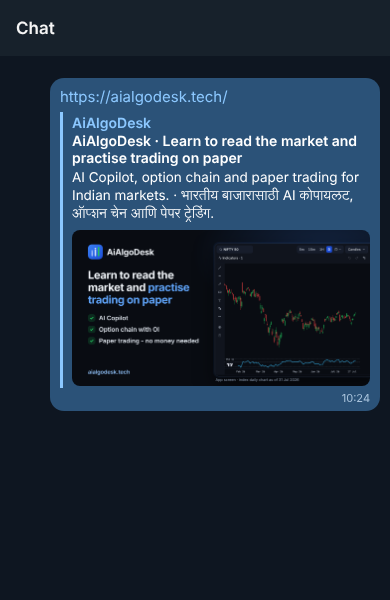
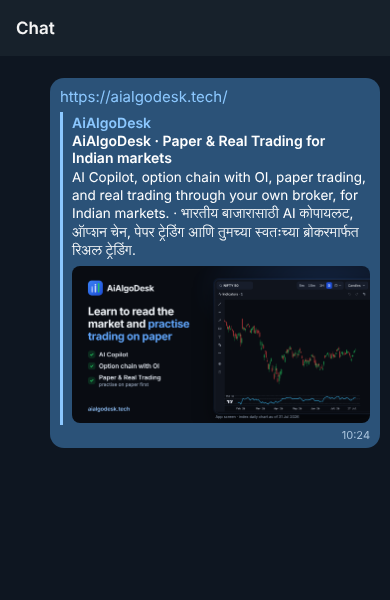
M95-Q8: the link-preview image says Paper & Real Trading; preview proofs re-made
Claude-Session: https://claude.ai/code/session_01DartbPxmHrAyA5TTsS4Pys

Changed region(s): [[0.1231, 0.21, 0.9846, 0.75], [0.8308, 0.51, 0.9231, 0.54]]

diff --git a/frontend/index.html b/frontend/index.html
@@ -23,13 +23,13 @@
     <meta property="og:image:type" content="image/png" />
     <meta property="og:image:width" content="1200" />
     <meta property="og:image:height" content="630" />
-    <meta property="og:image:alt" content="AiAlgoDesk: an app screen with a daily index chart, and the words AI Copilot, Option chain with OI, Paper & Real Trading - practise first" />
+    <meta property="og:image:alt" content="AiAlgoDesk: an app screen with a daily index chart, and the words AI Copilot, Option chain with OI, Paper & Real Trading - practise on paper first" />
     <meta property="og:locale" content="en_IN" />
     <meta name="twitter:card" content="summary_large_image" />
     <meta name="twitter:title" content="AiAlgoDesk · Paper & Real Trading for Indian markets" />
     <meta name="twitter:description" content="AI Copilot, option chain with OI, paper trading, and real trading through your own broker, for Indian markets." />
     <meta name="twitter:image" content="https://aialgodesk.tech/og/front-door.png" />
-    <meta name="twitter:image:alt" content="AiAlgoDesk: an app screen with a daily index chart, and the words AI Copilot, Option chain with OI, Paper & Real Trading - practise first" />
+    <meta name="twitter:image:alt" content="AiAlgoDesk: an app screen with a daily index chart, and the words AI Copilot, Option chain with OI, Paper & Real Trading - practise on paper first" />
     <!-- PW1: installable app. The bar colour follows the theme (surface token, dark and light). -->
     <link rel="manifest" href="/manifest.webmanifest" />
     <meta name="theme-color" content="#090c12" media="(prefers-color-scheme: dark)" />

diff --git a/frontend/scripts/og-image/card.html b/frontend/scripts/og-image/card.html
@@ -18,6 +18,7 @@
   li { display: flex; align-items: center; gap: 14px; font-size: 25px; font-weight: 600; color: #e2e8f0; }
   li i { flex: none; width: 30px; height: 30px; border-radius: 9px; display: grid; place-items: center;
     background: rgba(34,197,94,0.16); color: #22c55e; font-style: normal; font-size: 19px; font-weight: 800; }
+  li small { display: block; margin-top: 2px; font-size: 19px; font-weight: 500; color: #94a3b8; }
   .site { position: absolute; left: 64px; bottom: 44px; font-size: 22px; font-weight: 600; color: #93c5fd; }
   .shot { position: absolute; left: 574px; top: 54px; width: 660px; border-radius: 18px; overflow: hidden;
     border: 1px solid rgba(148,163,184,0.28); box-shadow: 0 30px 80px rgba(0,0,0,0.55), 0 0 0 6px rgba(59,130,246,0.08); }
@@ -32,7 +33,7 @@
     <ul>
       <li><i>&#10003;</i>AI Copilot</li>
       <li><i>&#10003;</i>Option chain with OI</li>
-      <li><i>&#10003;</i>Paper &amp; Real Trading - practise first</li>
+      <li><i>&#10003;</i><span>Paper &amp; Real Trading<small>practise on paper first</small></span></li>
     </ul>
   </div>
   <div class="site">aialgodesk.tech</div>
